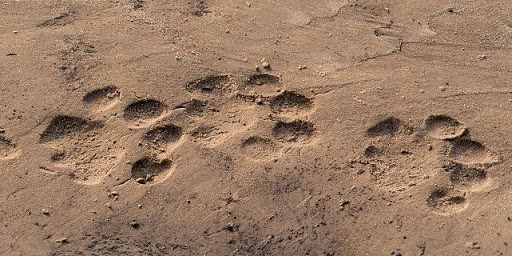
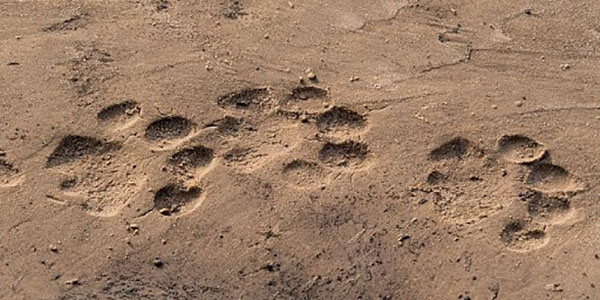
Reduced Size of All Images

diff --git a/index.html b/index.html
@@ -360,6 +360,8 @@ i:hover{
                         </select>
                         </div>
                     </div>
+
+                    <button id="randomUtility" class="btn btn-success" style="background-color: #32CC6E; font-family: 'Montserrat';font-size: 15px; margin-top: 20px">Submit Answers</button>
                     
                 </div>
 
